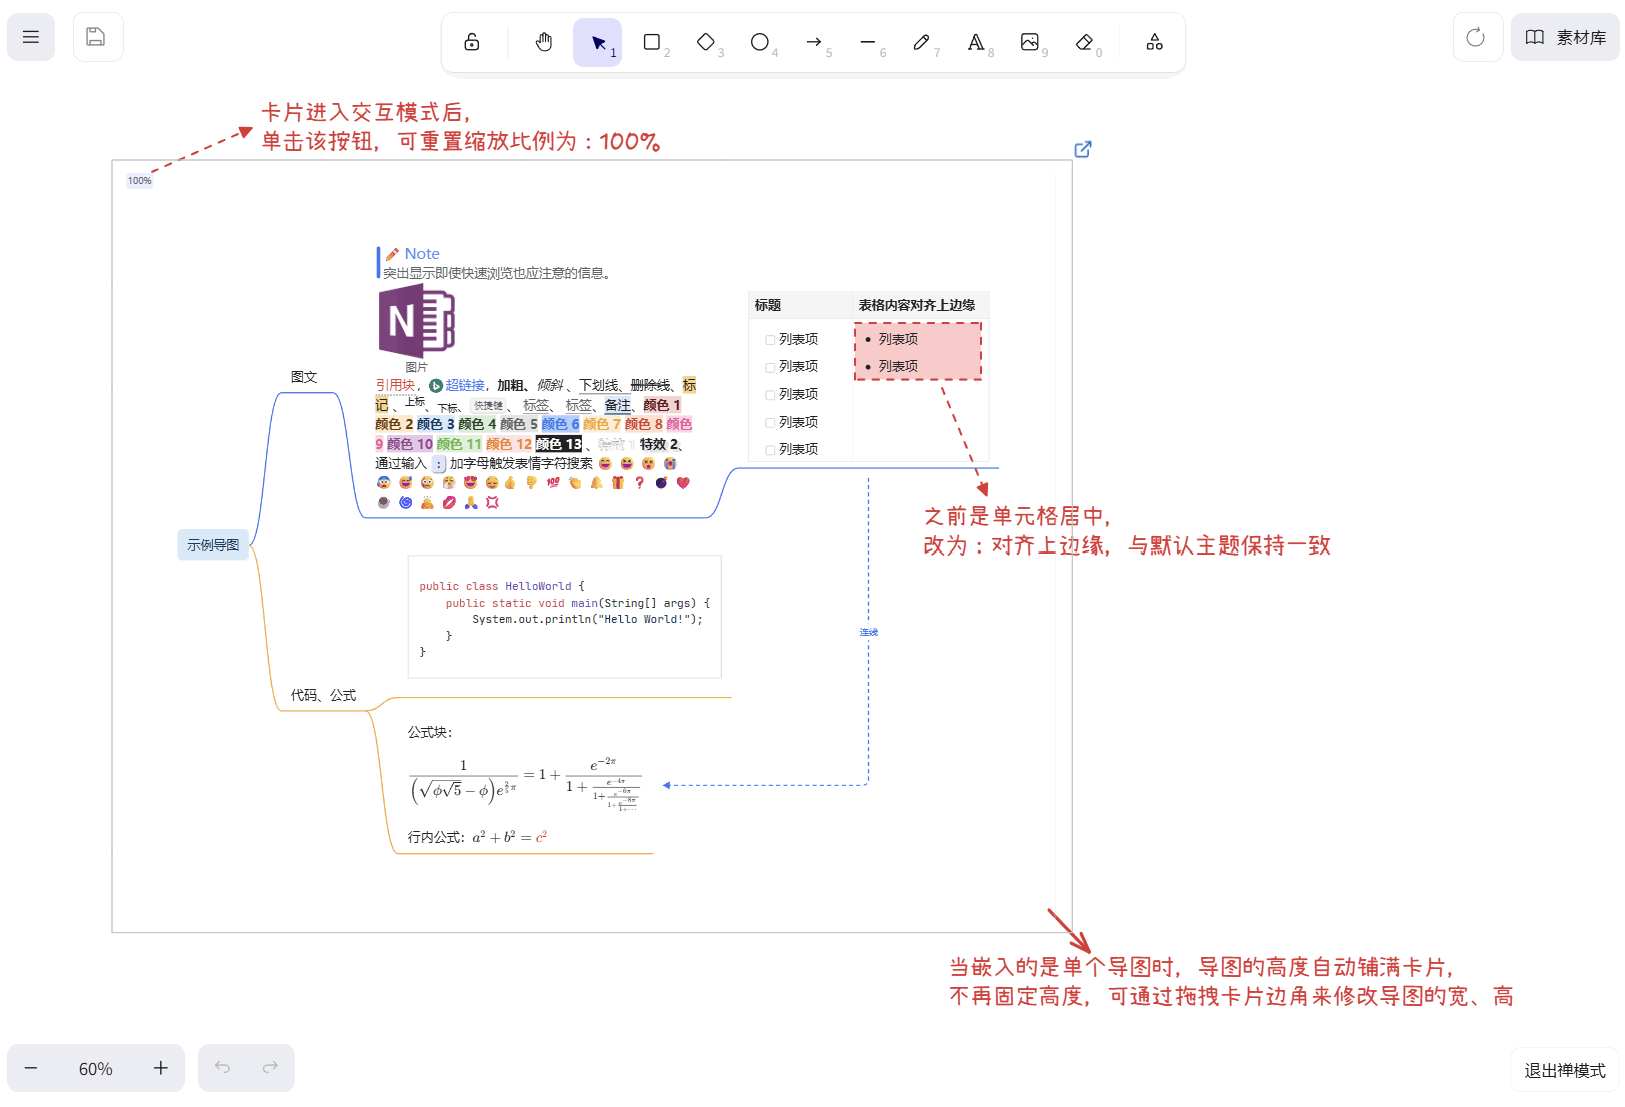
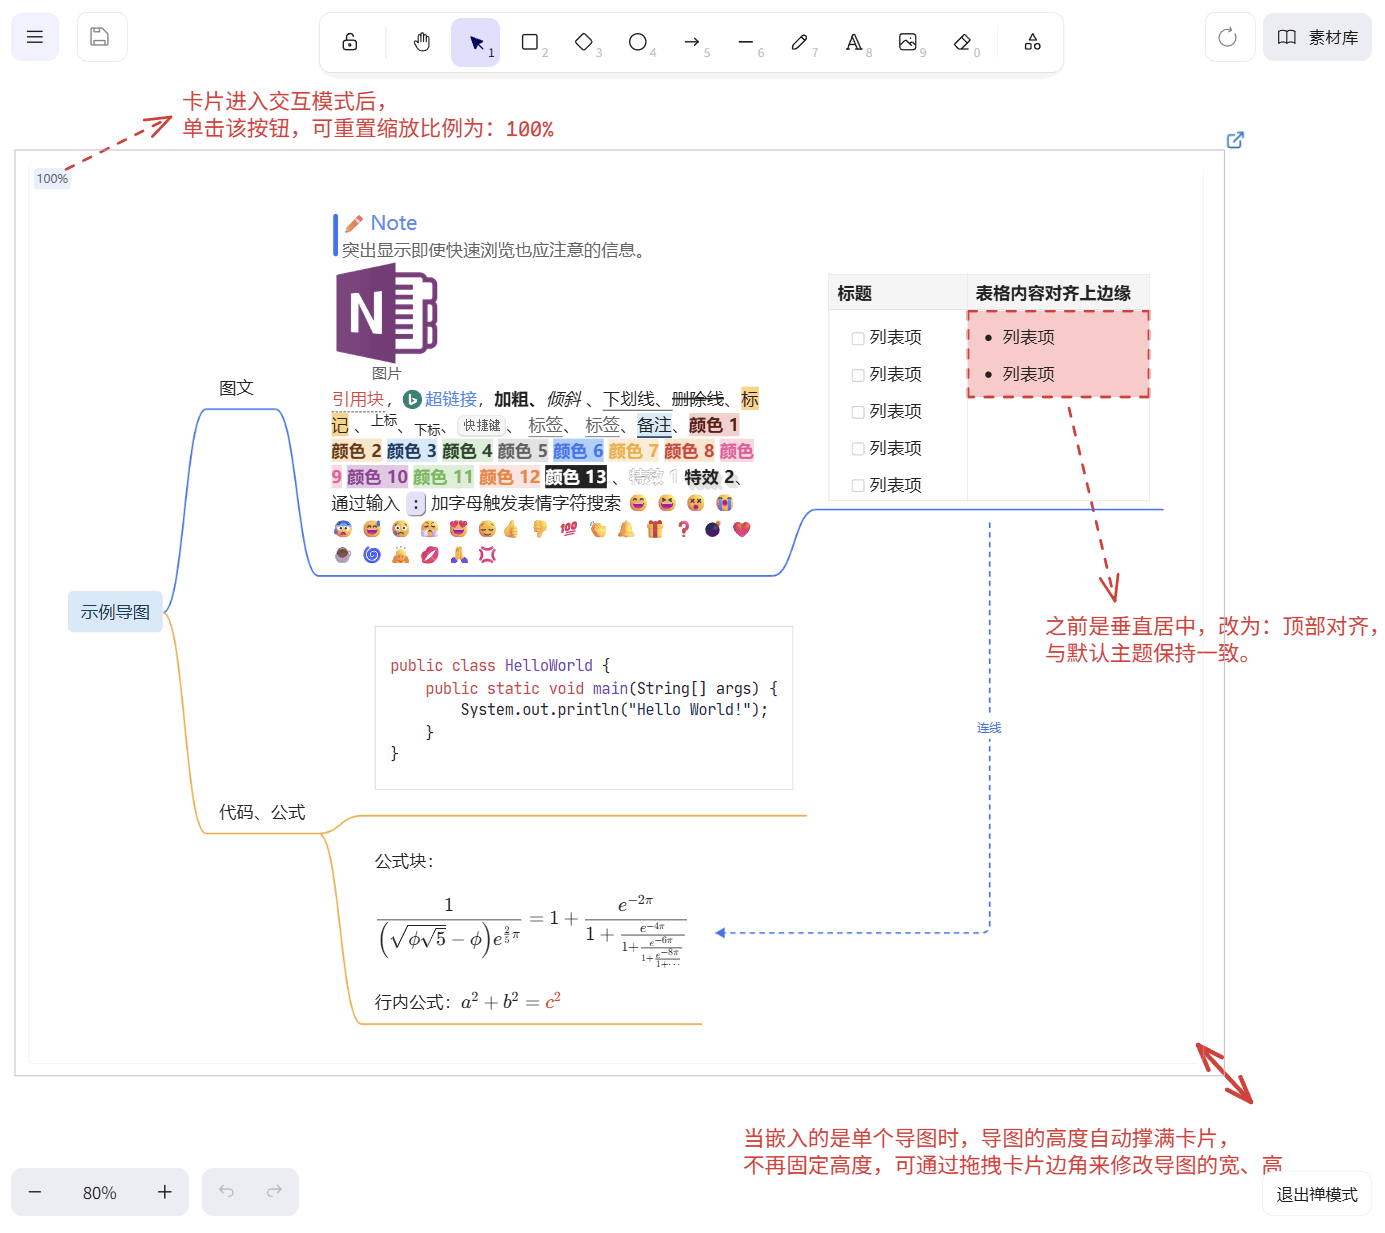
自适应缩放时，减少导图四周的空白

diff --git a/theme/config.js b/theme/config.js
@@ -2554,7 +2554,7 @@ class ListMindmapView {
   fit() {
     const width = this.#viewport.clientWidth;
     const height = this.#viewport.clientHeight;
-    this.#scale = Math.min(1, Math.max(.15, Math.min((width - 64) / this.#bounds.width, (height - 64) / this.#bounds.height)));
+    this.#scale = Math.min(1, Math.max(.15, Math.min((width - 8) / this.#bounds.width, (height - 8) / this.#bounds.height)));
     this.#offsetX = (width - this.#bounds.width * this.#scale) / 2;
     this.#offsetY = (height - this.#bounds.height * this.#scale) / 2;
     this.draw();

diff --git a/README_en_US.md b/README_en_US.md
@@ -16,7 +16,7 @@
 See the preview image at the top. Test environment: `SiYuan V3.8.5-alpha.4`, `Windows 11`
 
 - Added support for mind map rendering of lists.
-- Style adjustment: Table content aligns to the top edge. (Previously centered)
+- Style adjustment: Table content is aligned to the top. (Previously centered)
 
 Notes on the list mind map mode:
 

diff --git a/README.md b/README.md
@@ -17,7 +17,7 @@
 见顶部预览图。测试环境：`SiYuan V3.8.5-alpha.4`、`Windows 11`
 
 - 支持渲染列表的导图模式。
-- 样式调整：表格内容对齐上边缘。（之前是居中）
+- 样式调整：表格内容顶部对齐。（之前是居中对齐）
 
 关于列表的导图模式，有以下注意事项：
 
